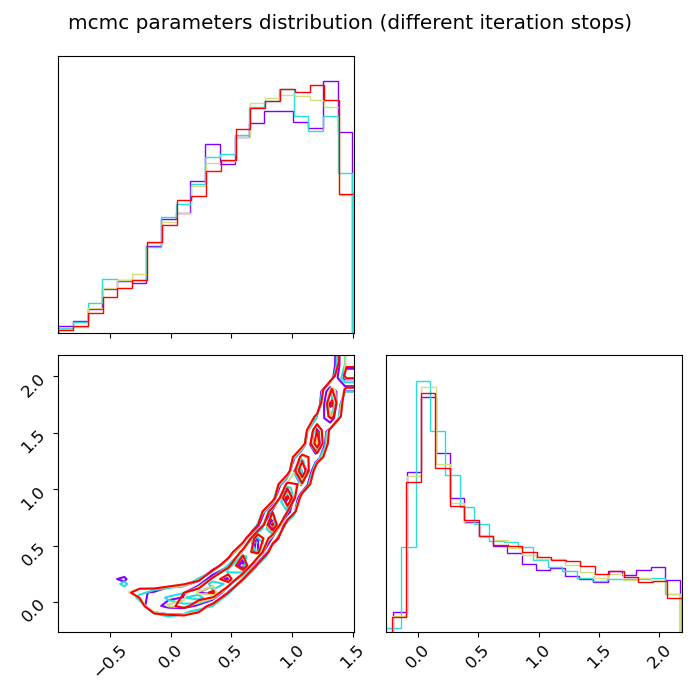
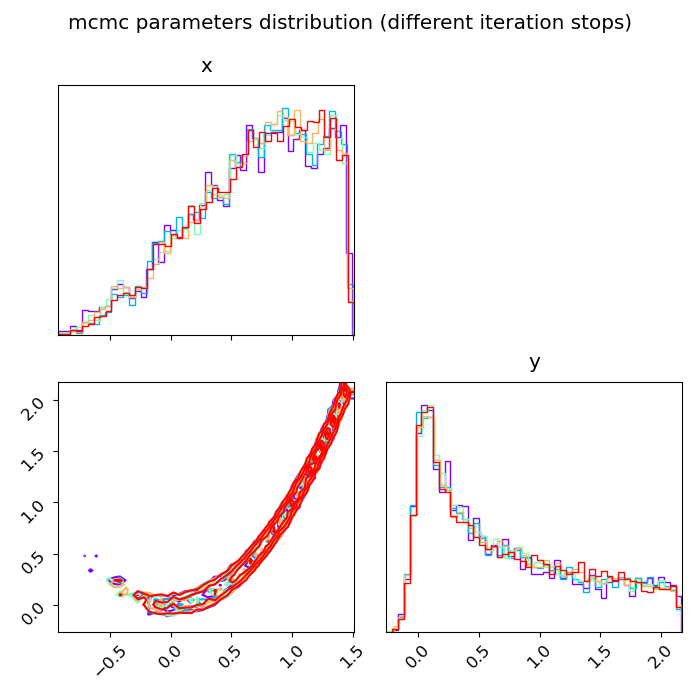
-change example_mcmc.py with mean instead of median in mcmc exploration plot -some aesthetic changes in mcmc.md -add plot of #points that do not pass contraint, more relevant for high number of walkers, not shown in mcmc.md.

diff --git a/examples/example_mcmc.py b/examples/example_mcmc.py
@@ -2,7 +2,6 @@ import corner
 import emcee
 import matplotlib.pyplot as plt
 import numpy as np
-import scipy
 from matplotlib.pyplot import cm
 from scipy.optimize import rosen
 
@@ -14,8 +13,8 @@ plt.close('all')
 plt.interactive(True)
 plt.rcParams.update({'font.size': 12})
 
-save_plots = False
-# save_plots = True
+# save_plots = False
+save_plots = True
 
 np.random.seed(0)
 
@@ -60,7 +59,7 @@ init_points = (np.array([[x0_constraint, y0_constraint] for _ in range(num_walke
 # log_prob_fun = log_prob
 log_prob_fun = log_prob_with_constraint
 status = slurm_mcmc(log_prob_fun=log_prob_fun, init_points=init_points, num_iters=num_iters,
-                    cluster='local-map', verbosity=0)
+                    cluster='local-map', verbosity=1)
 sampler = status['sampler']
 slurm_pool = status['slurm_pool']
 
@@ -130,7 +129,7 @@ plt.ylim(param_bounds[1])
 plt.colorbar()
 plt.xlabel(param_labels[0])
 plt.ylabel(param_labels[1])
-plt.title('log probability function: rosenbrock')
+plt.title('log-probability function')
 
 # plot points sampled during mcmc
 plt.scatter(slurm_pool.points_history[:, 0], slurm_pool.points_history[:, 1], c='k', marker='o', s=10, alpha=0.1)
@@ -150,17 +149,6 @@ plt.tight_layout()
 
 if save_plots:
     plt.savefig('example_mcmc_2d_visualization')
-
-# corner plot of mcmc samples
-fig = plt.figure(figsize=(7, 7))
-bins = 50
-corner.corner(samples_flat, labels=param_labels, color='k', truths=minima, truth_color='r', fig=fig, labelpad=-0.1,
-              bins=bins)
-plt.suptitle('mcmc parameters distribution')
-plt.tight_layout()
-
-if save_plots:
-    plt.savefig('example_mcmc_parameters_distribution')
 
 # plot metrics for mcmc convergence
 metrics = ['tau', 'tau_multiples', 'ESS', 'GR']
@@ -210,10 +198,10 @@ for ind_point, point in enumerate(slurm_pool.points_history):
 
 fig, axs = plt.subplots(nrows=1, ncols=2, figsize=(12, 5))
 ax = axs[0]
-num_samples_array = list(range(len(all_values_history)))
-ax.plot(num_samples_array, all_values_history, '.k', linewidth=1, alpha=0.1, label='all samples')
-ax.plot(num_samples_array, mcmc_values_history, '.r', linewidth=1, alpha=0.1, label='mcmc samples')
-ax.set_xlabel('# samples')
+num_iters_array = np.linspace(-0.5, num_iters, all_values_history.shape[0])
+ax.plot(num_iters_array, all_values_history, '.k', linewidth=1, alpha=0.1, label='all samples')
+ax.plot(num_iters_array, mcmc_values_history, '.r', linewidth=1, alpha=0.1, label='mcmc samples')
+ax.set_xlabel('# iter')
 ax.set_ylabel('$\\chi^2$')
 ax.set_yscale('log')
 ax.legend()
@@ -224,20 +212,12 @@ hist_range = (0, 4 * num_params)
 ax.hist(all_values_history, range=hist_range, bins=bins, color='k', alpha=0.5, density=True,
         label='all samples')
 ax.hist(mcmc_values_history, range=hist_range, bins=bins, color='r', alpha=0.5, density=True,
-        label=f'mcmc samples median={np.nanpercentile(mcmc_values_history, 50):.1f}')
+        label=f'mcmc samples mean={np.nanmean(mcmc_values_history):.1f}')
 
-# plot the values for a reference normal distribution
-normal_num_params = 2
-mean = np.ones(normal_num_params)
-cov = np.eye(normal_num_params)
-normal_points = np.random.multivariate_normal(mean, cov, len(mcmc_values_history))
-diff = normal_points - mean
-cov_inv = np.linalg.inv(cov)
-cov_inv_diff = np.matmul(diff, cov_inv)
-samples_normal_MC = np.sum(diff * cov_inv_diff, axis=1)
-ax.hist(samples_normal_MC, range=hist_range, bins=bins, color='b', alpha=0.2, density=True,
-        label=f'normal d={normal_num_params} median={np.nanpercentile(samples_normal_MC, 50):.1f}')
-print(f'scipy.stats.chi2.ppf(0.5,{normal_num_params})={scipy.stats.chi2.ppf(0.5, num_params)}.')
+# plot the values for a reference chi^2 distribution (sum of normal distributions squared)
+samples_chi2 = np.random.chisquare(num_params, len(mcmc_values_history))
+ax.hist(samples_chi2, range=hist_range, bins=bins, color='b', alpha=0.2, density=True,
+        label=f'$\\chi^2(d={num_params})$ samples mean={np.nanmean(samples_chi2):.1f}')
 
 ax.set_xlabel('$\\chi^2$')
 ax.set_yticks([])
@@ -250,21 +230,54 @@ fig.tight_layout()
 if save_plots:
     plt.savefig('example_mcmc_log_probability_values_explore')
 
+# plot of % of points that did not pass constraint per iterations
+iters_list = list(range(num_iters))
+failed_constraint_percentage_list = []
+for ind_iter in range(num_iters):
+    if ind_iter == 0:
+        ind_ini, ind_fin = 0, 2 * num_walkers
+    else:
+        ind_ini = ind_fin
+        ind_fin += num_walkers
+    num_failed = np.sum(all_values_history[ind_ini:ind_fin] > 1e7)
+    failed_constraint_percentage_list += [100.0 * num_failed / (ind_fin - ind_ini)]
+plt.figure(figsize=(6, 5))
+plt.plot(iters_list, failed_constraint_percentage_list, 'ob')
+plt.xlabel('# iter')
+plt.ylabel('%')
+plt.grid(True)
+plt.title('% points per iteration that did not pass constraints')
+plt.tight_layout()
+
+# corner plot of mcmc samples
+fig = plt.figure(figsize=(7, 7))
+bins = 50
+corner.corner(samples_flat, color='k', truths=minima, truth_color='r', fig=fig, bins=bins)
+axes = np.array(fig.axes).reshape((num_params, num_params))
+for i in range(num_params):
+    axes[i, i].set_title(param_labels[i], pad=10)
+plt.suptitle('mcmc parameters distribution')
+plt.tight_layout()
+
+if save_plots:
+    plt.savefig('example_mcmc_parameters_distribution')
+
 # plot the parameter distributions for different iterations, to see how the distrbutions converge.
 fig = plt.figure(figsize=(7, 7))
-num_splits = 4
+num_splits = 5
 num_iters_interval = int(samples.shape[0] / num_splits)
-nun_iters_list = np.arange(num_iters_interval, samples.shape[0], num_iters_interval)
+max_iters_list = np.arange(num_iters_interval, samples.shape[0] + 1, num_iters_interval)
 color_list = cm.rainbow(np.linspace(0, 1, num_splits))
-bins = 20
 num_subsamples = int(samples_flat.shape[0] / num_splits)
-for ind_n, n in enumerate(nun_iters_list):
+for ind_n, n in enumerate(max_iters_list):
     samples_flat_subset = samples[:n].reshape(-1, samples.shape[-1])
     random_indices = np.random.permutation(samples_flat_subset.shape[0])[0:num_subsamples]
     samples_flat_subset = samples_flat_subset[random_indices, :]
-    corner.corner(samples_flat_subset, labels=None, color=color_list[ind_n], fig=fig, bins=bins,
+    corner.corner(samples_flat_subset, color=color_list[ind_n], fig=fig, bins=bins,
                   plot_datapoints=False, plot_density=False)
-
+axes = np.array(fig.axes).reshape((num_params, num_params))
+for i in range(num_params):
+    axes[i, i].set_title(param_labels[i], pad=10)
 fig.suptitle('mcmc parameters distribution (different iteration stops)')
 plt.tight_layout()
 

diff --git a/examples/docs/mcmc.md b/examples/docs/mcmc.md
@@ -53,15 +53,13 @@ and the histogram of the values accepted to the MCMC samples set (red).
 
 <img src="pics/example_mcmc_log_probability_values_explore.png" alt="example_mcmc_log_probability_values_explore" width="1200" height="auto">
 
-The histogram can be compared with the one generated from a normal iid distribution in 2 dimensions (blue).
-The medians of both distributions are numerically calculated and written in the legend. 
-For the normal distribution the median can also be calculated with the built-in function `scipy.stats.chi2.ppf(0.5, 2)`.
-In our chosen example of the log-probability function the median value is lower than for the normal distribution due to the correlation between parameters.
+The histogram can be compared with the one generated from a $\chi^2$ distribution in 2 dimensions (blue).
+The means of both distributions are numerically calculated and written in the legend (the analytic value for the mean of the $\chi^2$ distribution should be the dimension). 
 
 The final product of the Bayesian analysis is a [``corner``](https://github.com/dfm/corner.py) plot of the parameters distribution:
 
 <img src="pics/example_mcmc_parameters_distribution.png" alt="example_mcmc_parameters_distribution" width="700" height="auto">
 
-A convergence test of the parameters distributions, assuming the MCMC is stopped at 4 different points along the chains:
+A convergence test of the parameters distributions, assuming the MCMC is stopped at 5 different points along the chains (progression in colors going from purple to red):
 <img src="pics/example_mcmc_parameters_distribution_convergence.png" alt="example_mcmc_parameters_distribution_convergence" width="700" height="auto">
 
